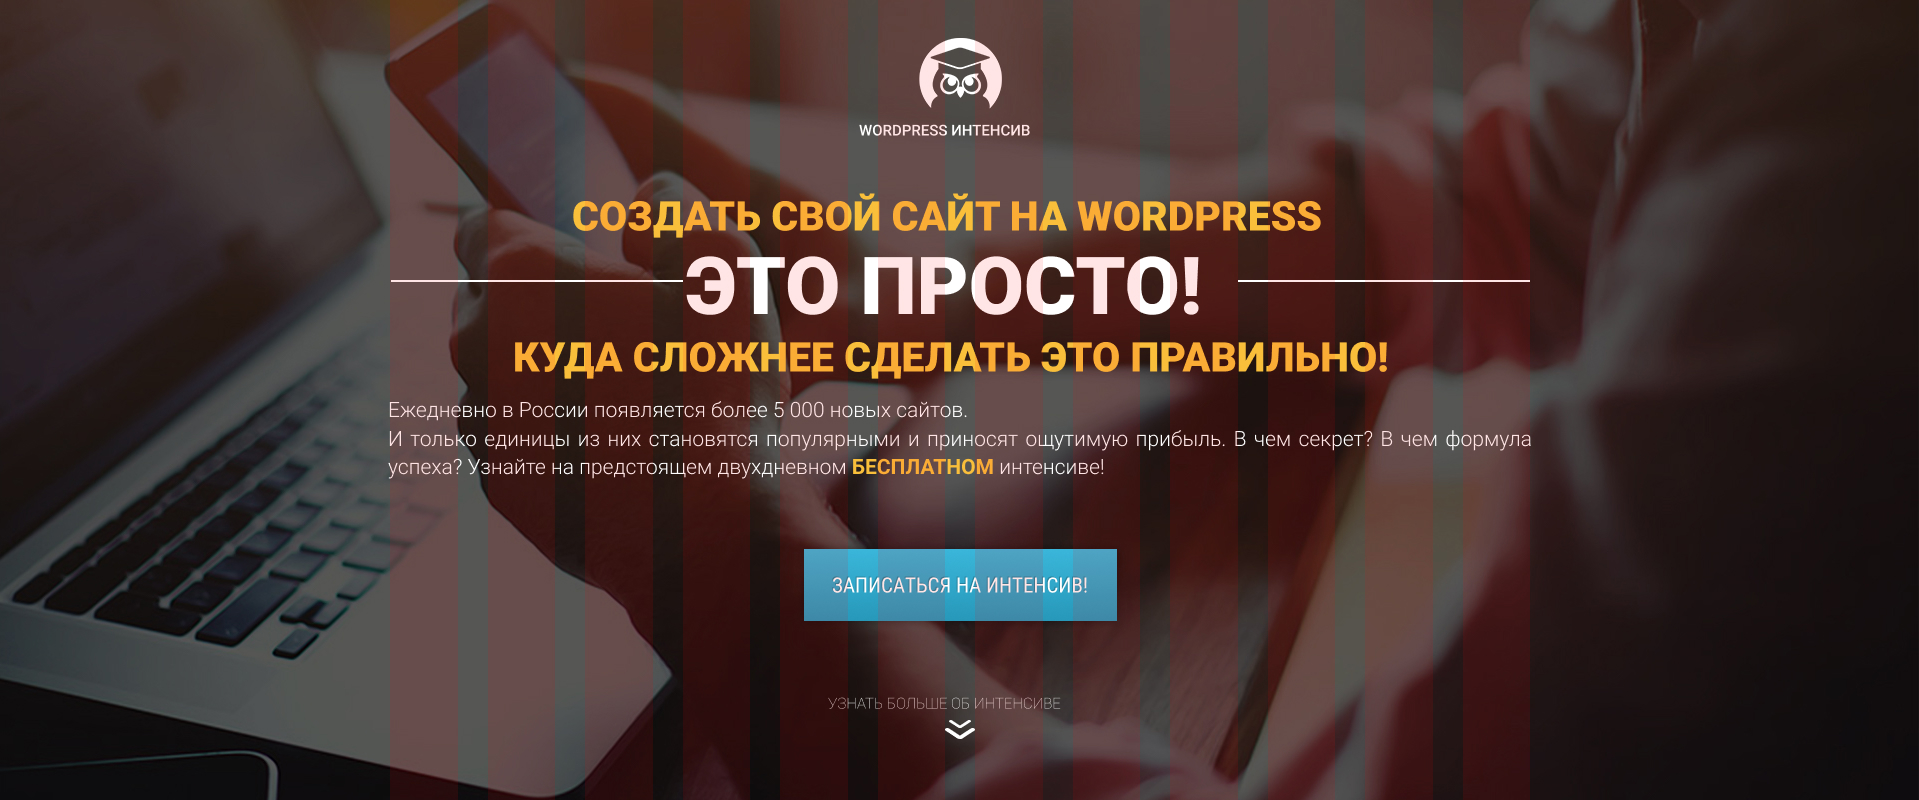
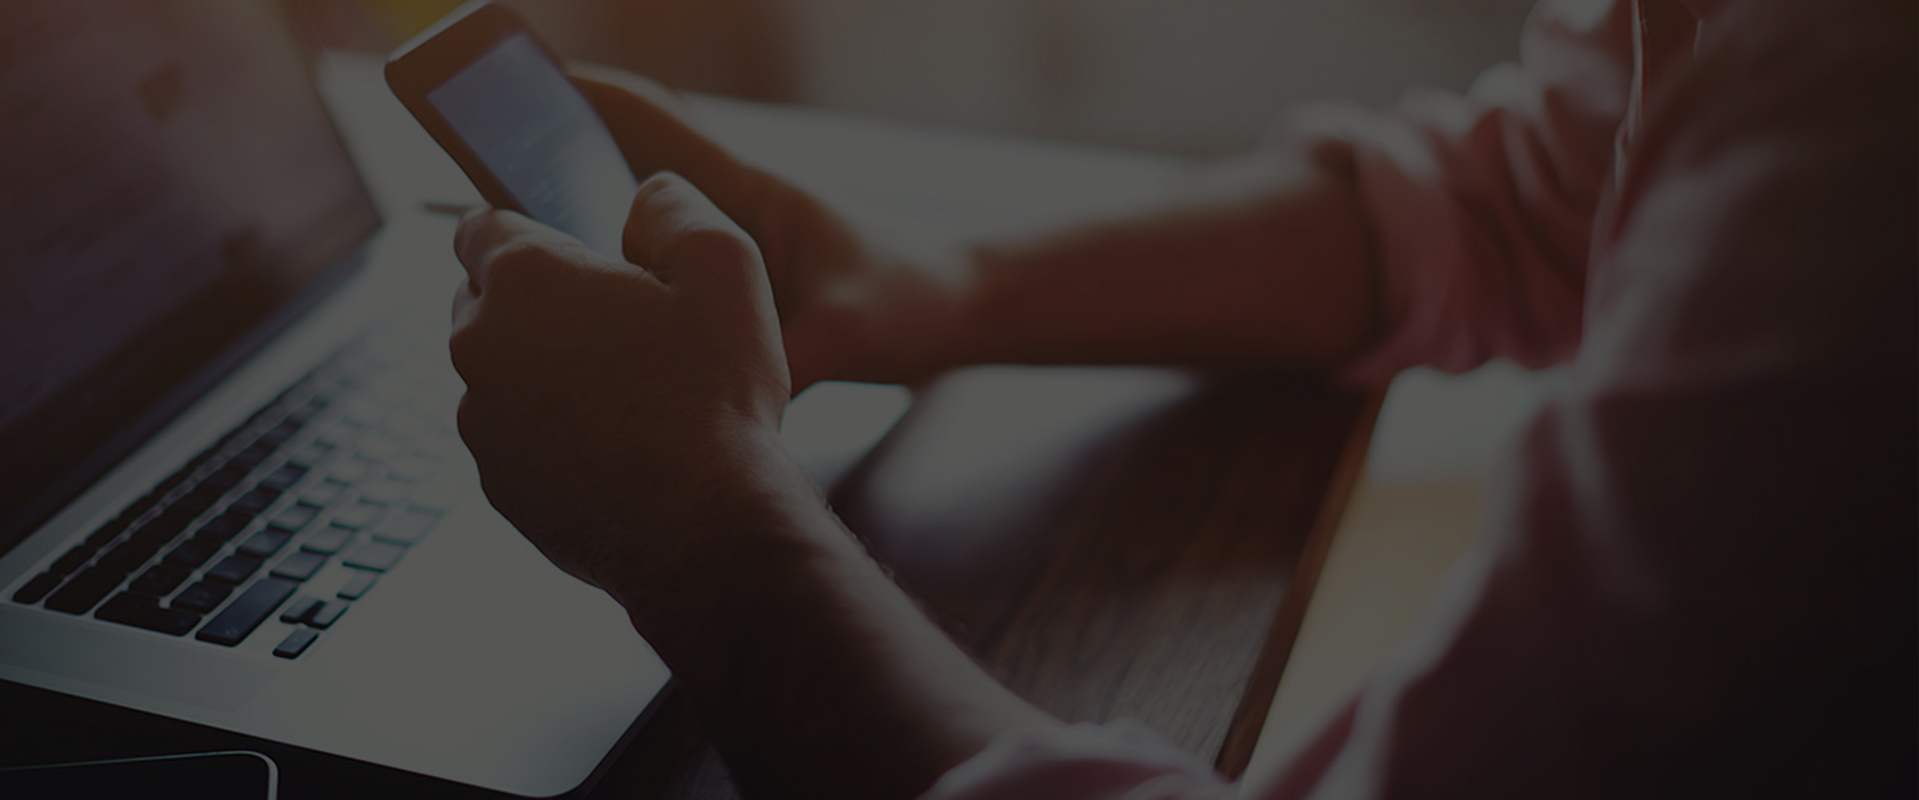
project#1 promo section was added

diff --git a/src/project#1/css/style.css b/src/project#1/css/style.css
@@ -1,0 +1,147 @@
+* {
+    box-sizing: border-box;
+    margin: 0;
+    padding: 0;
+}
+
+.container {
+    width: 1140px;
+    margin: 0 auto;
+    align-content: center;
+}
+
+.promo {
+    height: 800px;
+    background: url("../img/bg/main_bg.jpg") center center/cover no-repeat;
+    padding: 39px 0 62px;
+}
+
+.promo__logo {
+
+}
+
+.promo__logo .promo__logo-img {
+    display: block;
+    margin: 0 auto;
+}
+
+.promo__logo .promo__logo-title {
+    text-align: center;
+    margin-top: 14px;
+    font-family: "Roboto", sans-serif;
+    font-weight: 500;
+    font-size: 15px;
+
+    line-height: 1.6;
+    text-transform: uppercase;
+    color: #fff;
+}
+
+.promo__title {
+    margin-top: 53px;
+}
+
+.promo__title-main {
+    font-family: "Roboto", sans-serif;
+    font-weight: 900;
+    font-size: 41px;
+
+    line-height: 1;
+    text-transform: uppercase;
+    text-align: center;
+    color: #f9bf3b;
+}
+
+.promo__title-simple {
+}
+
+.promo__title .promo__title-simple-text {
+    margin-top: 21px;
+
+    font-family: "Roboto", sans-serif;
+    font-weight: 900;
+    font-size: 80px;
+
+    line-height: 1;
+    text-transform: uppercase;
+    text-align: center;
+    color: #fff;
+}
+
+.promo__title .promo__title-simple-line {
+}
+
+.promo__title .promo__title-hard-to-do {
+    margin-top: 21px;
+
+    font-family: "Roboto", sans-serif;
+    font-weight: 900;
+    font-size: 41px;
+
+    line-height: 1;
+    text-transform: uppercase;
+    text-align: center;
+    color: #f9bf3b;
+}
+
+.promo .promo__text {
+    margin-top: 23px;
+    padding: 0 13px 0;
+
+    font-family: "Roboto", sans-serif;
+    font-weight: 300;
+    font-size: 21px;
+
+    line-height: 1.33333;
+    text-align: center;
+    color: #fff;
+}
+
+.promo .promo__text > span {
+    font-weight: 700;
+    color: #f9bf3b;
+}
+
+.promo .promo__btn {
+    display: block;
+    margin: 73px auto 0;
+
+    width: 313px;
+    height: 72px;
+
+    box-shadow: inset 0 0 0 rgba(0, 0, 0, 0.18);
+    border: 4px solid rgba(0, 0, 0, 0.23);
+    background-image: linear-gradient(to top, #2798b9 0%, #3ab6da 100%);
+
+    text-shadow: -1px -1px 0 rgba(0, 0, 0, 0.22);
+    font-family: "RobotoCondensed", sans-serif;
+    font-weight: 400;
+    font-size: 21px;
+    line-height: 1.14286;
+    text-transform: uppercase;
+    color: #fff;
+
+    cursor: pointer;
+}
+
+.promo__more {
+    text-decoration: none;
+}
+
+.promo_more-text {
+    margin-top: 71px;
+    text-align: center;
+
+    font-family: "Roboto", sans-serif;
+    font-weight: 100;
+    font-size: 15px;
+
+    line-height: 1.6;
+    text-transform: uppercase;
+    color: #fff;
+}
+
+.promo__more-img {
+    display: block;
+    margin: 13px auto 0;
+}

diff --git a/src/project#1/index.html b/src/project#1/index.html
@@ -10,6 +10,43 @@
 </head>
 <body>
 
+<section class="promo">
+    <div class="container">
+
+        <div class="promo__logo">
+            <img src="icons/logo.png" alt="logo" class="promo__logo-img">
+            <div class="promo__logo-title">WordPress интенсив</div>
+        </div>
+
+        <div class="promo__title">
+            <h1 class="promo__title-main">Создать свой сайт на WordPress </h1>
+            <div class="promo__title-simple">
+                <h2 class="promo__title-simple-text">это просто!</h2>
+                <div class="promo__title-simple-line"></div>
+            </div>
+            <h2 class="promo__title-hard-to-do">Куда сложнее сделать это правильно!</h2>
+        </div>
+
+        <div class="promo__text">
+            Ежедневно в России появляется более 5 000 новых сайтов. <br>И только единицы из них становятся популярными и
+            приносят ощутимую прибыль. В чем секрет? В чем формула успеха? Узнайте на предстоящем двухдневном <span>БЕСПЛАТНОМ</span>
+            интенсиве!
+        </div>
+
+        <button class="promo__btn">
+            Записаться на интенсив!
+        </button>
+
+        <a href="#" class="promo__more">
+            <div class="promo_more-text">
+                узнать больше об интенсиве
+            </div>
+            <img src="icons/arrow_down.png" alt="arrow-down" class="promo__more-img">
+        </a>
+    </div>
+</section>
+
+<footer></footer>
 
 </body>
 </html>
